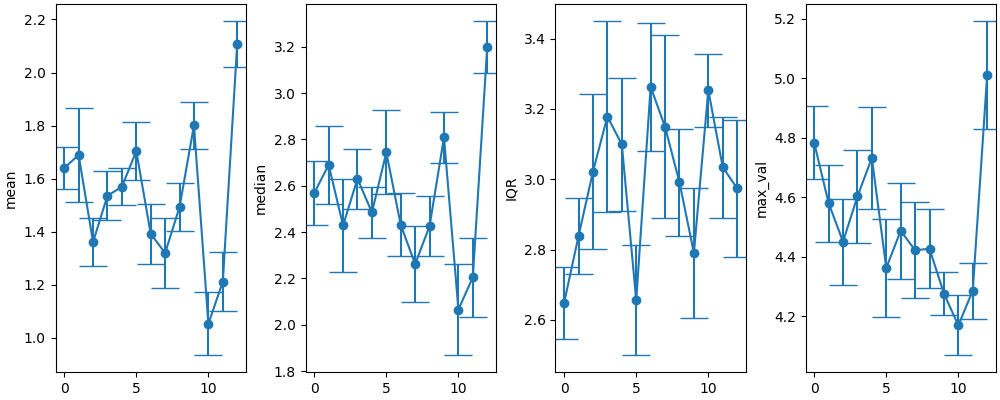
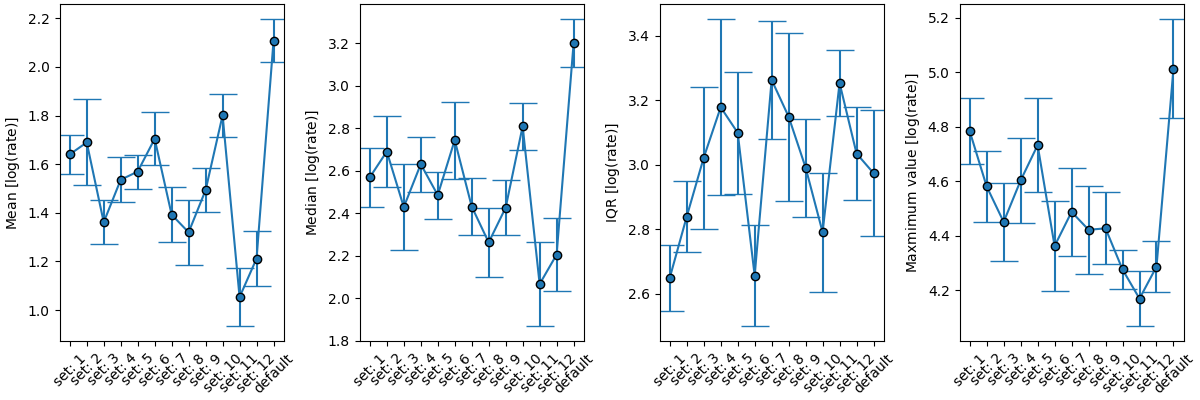
added extra stuff

diff --git a/results/optimization/genetic_algorithm/hyperparam_search/plot_summaries.py b/results/optimization/genetic_algorithm/hyperparam_search/plot_summaries.py
@@ -3,25 +3,40 @@ import yaml
 
 
 def main():
-    stat_measures = [
-        "mean",
-        "median",
-        "IQR",
-        "max_val"
-    ]
+    use_log = True
+    stat_measures = {
+        "mean":"Mean",
+        "median":"Median",
+        "IQR":"IQR",
+        "max_val":"Maxmimum value"
+    }
 
-    fig, axs = plt.subplots(1, len(stat_measures), layout="constrained", figsize=(10,4))
+
+    for stat_measure in stat_measures:
+        if use_log:
+            stat_measures[stat_measure] += " [$\log($rate$)$]"
+        else:
+            stat_measures[stat_measure] += " [rate 1/s]"
+
+    fig, axs = plt.subplots(1, len(stat_measures), layout="constrained", figsize=(12,4))
 
     with open("summary_desc.yaml", mode="r") as fileobj: 
         hyperparameter_statistics = yaml.safe_load(fileobj)
 
 
     for stat_measure, ax in zip(stat_measures, axs):
-        ax.set_ylabel(stat_measure)
+        ax.set_ylabel(stat_measures[stat_measure])
         xs = []
         values = []
         errs = []
+        x_labels = []
         for i, hyper_set in enumerate(hyperparameter_statistics):
+            if hyper_set != "default":
+                splitted_label = hyper_set.split("_")
+                x_labels.append(f"{splitted_label[0]}:" + f" {int(splitted_label[1])+1}")
+            else:
+                x_labels.append(f"{hyper_set}")
+            
             stat_dict = hyperparameter_statistics[hyper_set][stat_measure]
             value = stat_dict["mean"]
             err = stat_dict["err"]
@@ -29,7 +44,8 @@ def main():
             errs.append(err)
             xs.append(i)
 
-        ax.errorbar(xs, values, errs, capsize=10.0, fmt="o-")
+        ax.set_xticks(xs, x_labels, rotation=45)
+        ax.errorbar(xs, values, errs, capsize=10.0, fmt="o-", markeredgecolor="k")
 
     plt.savefig("ill_log.png")
 if __name__ == "__main__":
